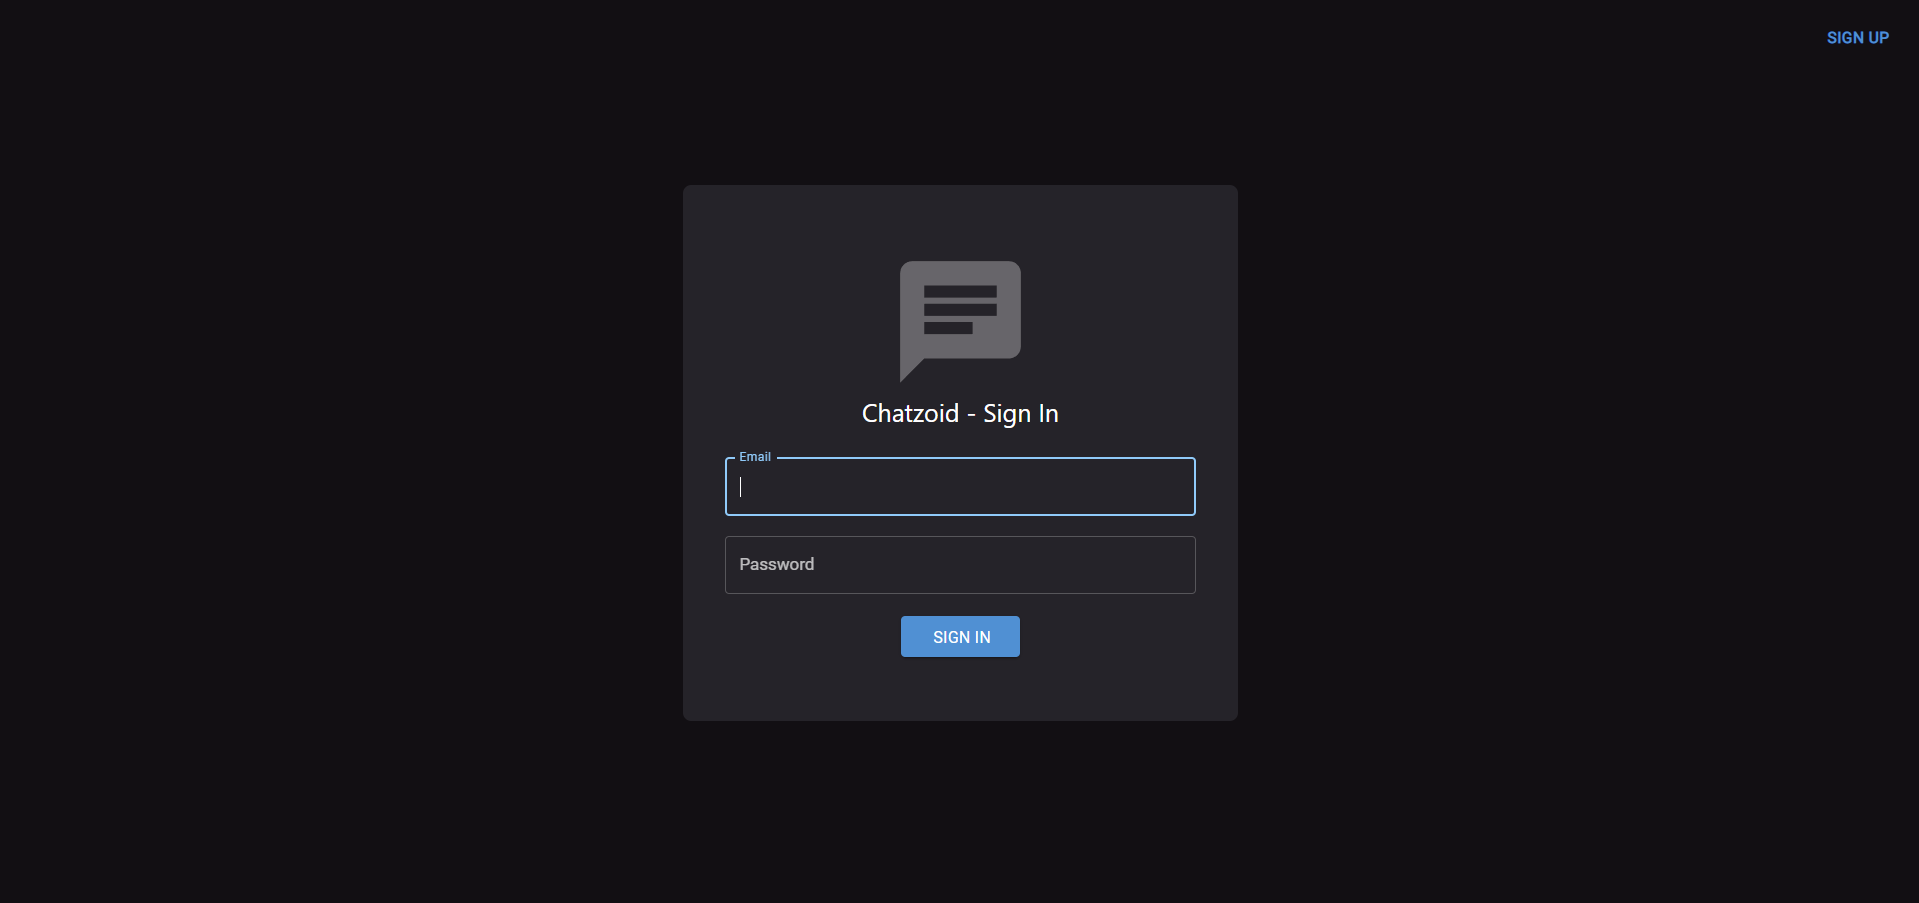
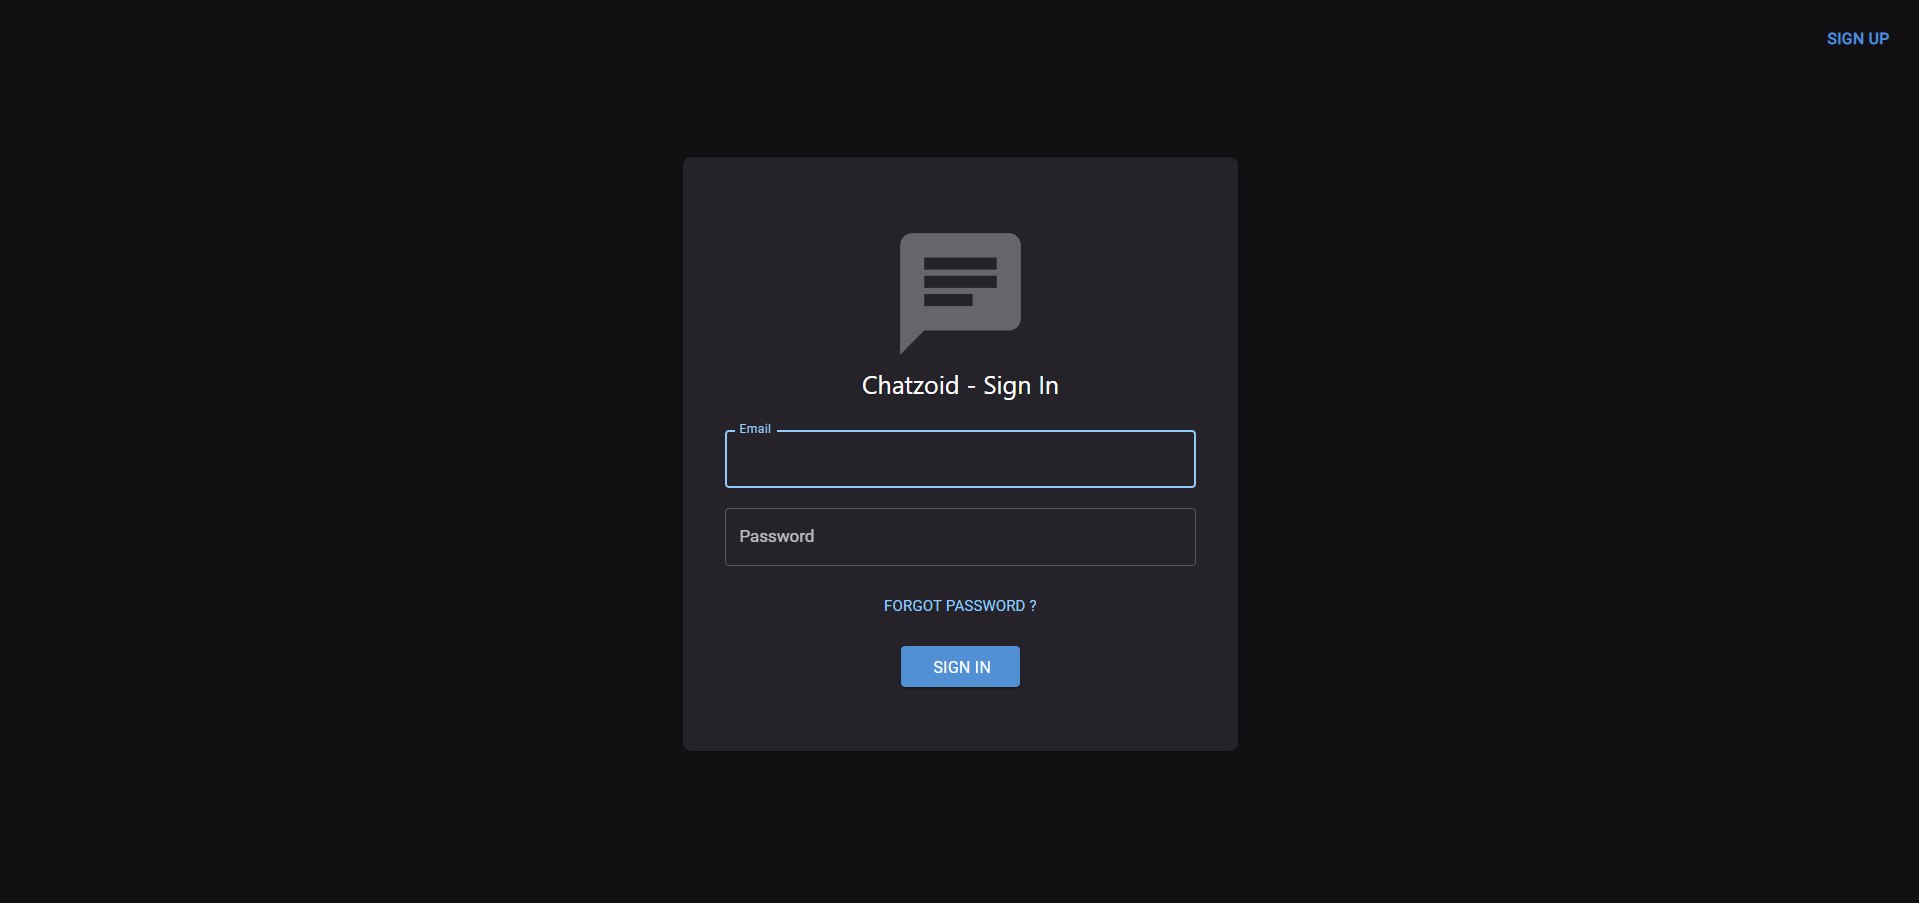
Forgot password auth method added

diff --git a/src/Login.js b/src/Login.js
@@ -1,10 +1,10 @@
 import React, { useState } from 'react';
-import { getAuth, createUserWithEmailAndPassword, signInWithEmailAndPassword, updateProfile } from "firebase/auth";
+import { getAuth, createUserWithEmailAndPassword, signInWithEmailAndPassword, updateProfile, sendPasswordResetEmail } from "firebase/auth";
 import Button from '@mui/material/Button';
 // import GoogleIcon from '@mui/icons-material/Google';
 import toast, { Toaster } from 'react-hot-toast';
 import ChatIcon from '@mui/icons-material/Chat';
-import { Avatar, TextField } from '@mui/material';
+import { Avatar, DialogContentText, TextField } from '@mui/material';
 import Dialog from '@mui/material/Dialog';
 import DialogActions from '@mui/material/DialogActions';
 import DialogContent from '@mui/material/DialogContent';
@@ -22,6 +22,16 @@ export const Login = (props) => {
     const [open, setOpen] = useState(false);
     const [name, setName] = useState('')
     const [open1, setOpen1] = useState(false);
+    const [open3, setOpen3] = React.useState(false);
+    const [resetemail, setresetemail] = useState("")
+
+    const handleClickOpen3 = () => {
+        setOpen3(true);
+    };
+
+    const handleClose3 = () => {
+        setOpen3(false);
+    };
 
     const handleClickOpen1 = () => {
         setOpen1(true);
@@ -100,6 +110,16 @@ export const Login = (props) => {
     const handleClickOpen = () => {
         setOpen(true);
     };
+    const resetPassword = () => {
+        sendPasswordResetEmail(auth, resetemail)
+            .then(() => {
+                toast.success("Check your mail for password reset link ")
+            })
+            .catch((error) => {
+                toast.error(error.message.slice(16))
+            });
+
+    }
     // const goLeft = () => {
     //     if (i > 0) {
     //         setI(i - 1);
@@ -148,8 +168,32 @@ export const Login = (props) => {
                 onChange={e => setpassword(e.target.value)}
                 style={{ width: '92%', marginTop: '19px' }}
             />
-
-            <Button variant="contained" sx={{ marginTop: '21px', width: '115px', backgroundColor: '#5090D3' }} onClick={senduserdetails} size="large">
+            <Button sx={{ marginTop: '21px' }} onClick={handleClickOpen3} variant="text">Forgot Password ?</Button>
+            <Dialog open={open3} onClose={handleClose3}>
+                <DialogTitle>Forgot Password ? </DialogTitle>
+                <DialogContent>
+                    <DialogContentText>
+                        Enter your email to get password reset link
+                    </DialogContentText>
+                    <TextField
+                        style={{ marginTop: '18px' }}
+                        value={resetemail}
+                        onChange={e => setresetemail(e.target.value)}
+                        autoFocus
+                        margin="dense"
+                        id="name"
+                        label="Email"
+                        type="email"
+                        fullWidth
+                        variant="outlined"
+                    />
+                </DialogContent>
+                <DialogActions>
+                    <Button onClick={handleClose3}>Cancel</Button>
+                    <Button onClick={resetPassword}>Reset</Button>
+                </DialogActions>
+            </Dialog>
+            <Button variant="contained" sx={{ marginTop: '19px', width: '115px', backgroundColor: '#5090D3' }} onClick={senduserdetails} size="large">
                 <p style={{ width: '190px', color: 'white', fontWeight: '500', marginLeft: '3px', marginBottom: '-3px' }}>Sign In</p>
             </Button>
             <Button variant="text" sx={{ marginTop: '16px', width: '105px', position: 'absolute', top: '0', right: '9px' }} onClick={handleClickOpen} size="large">
